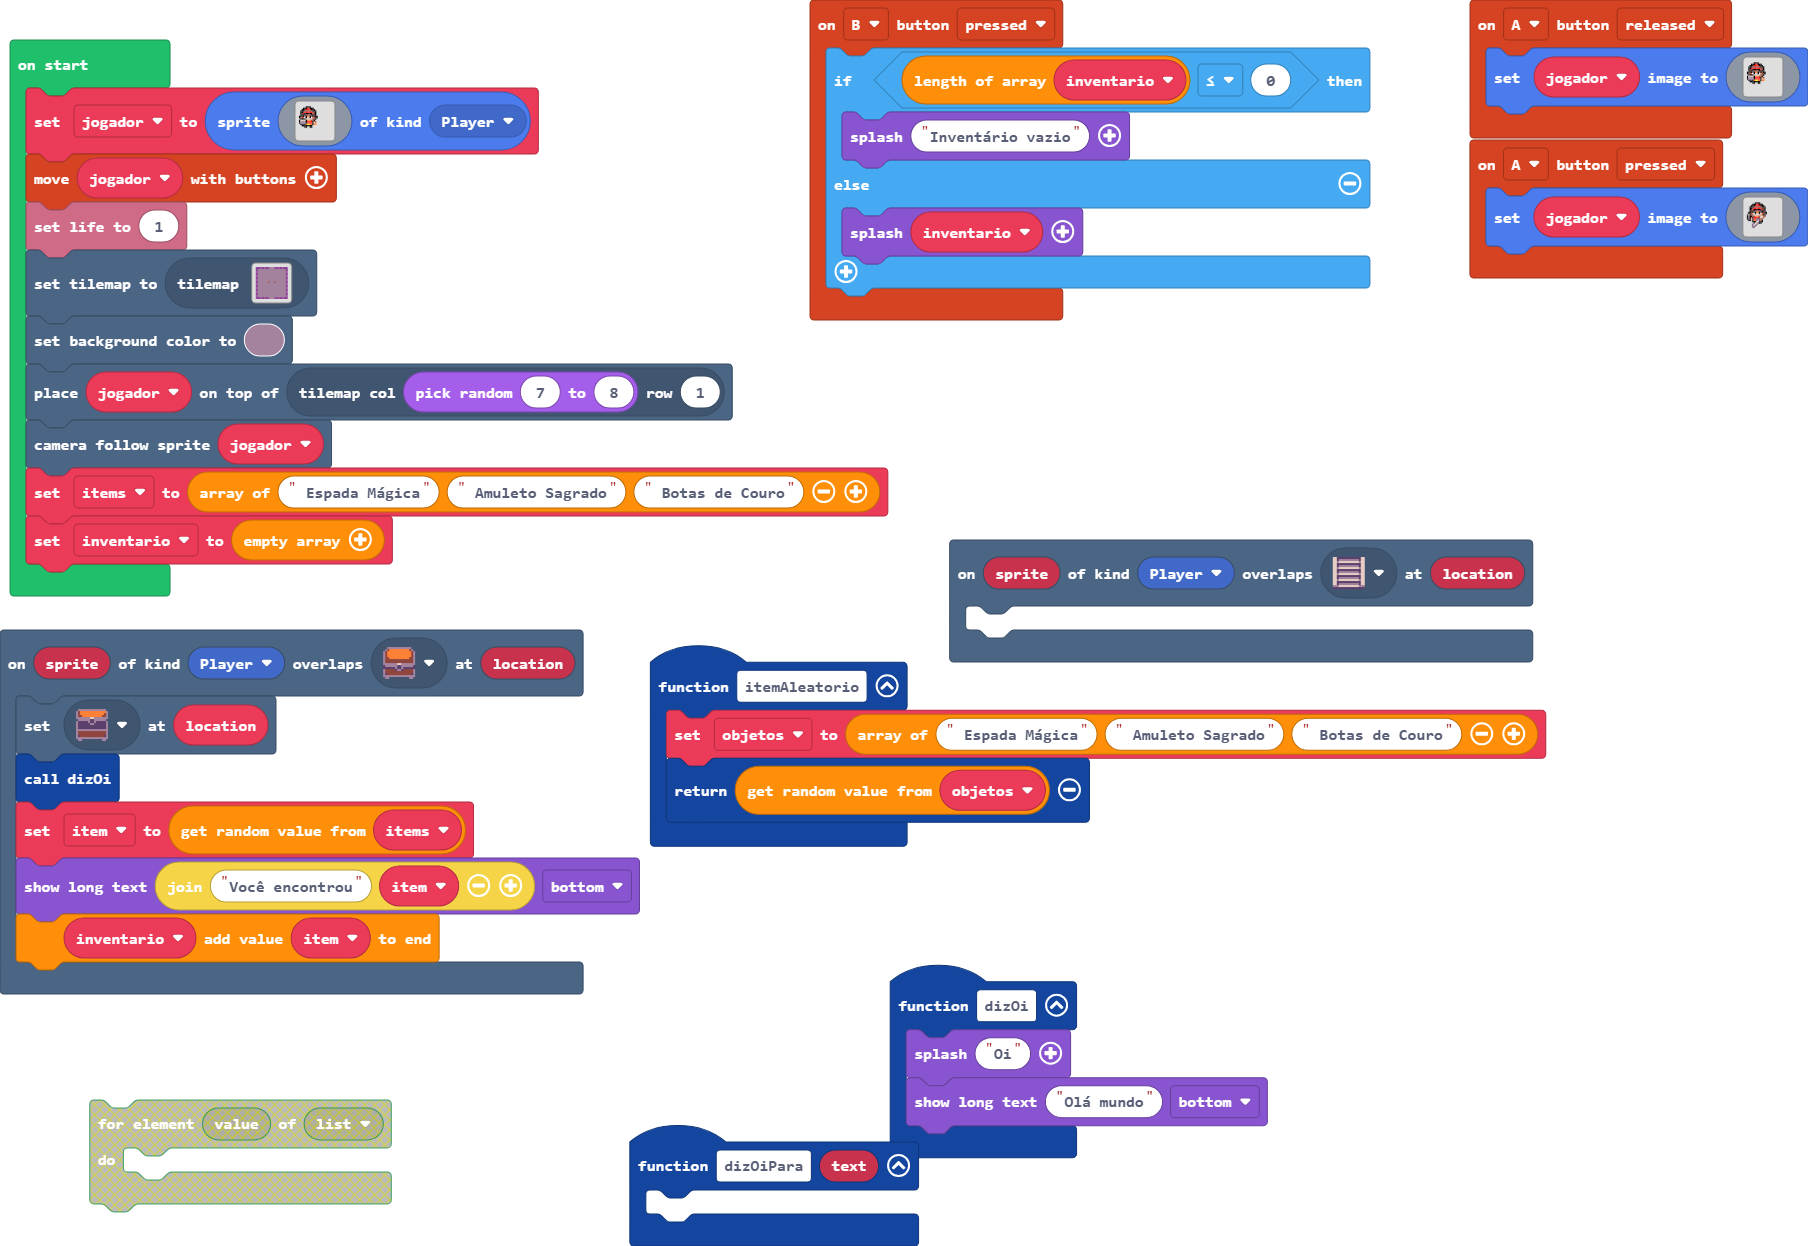
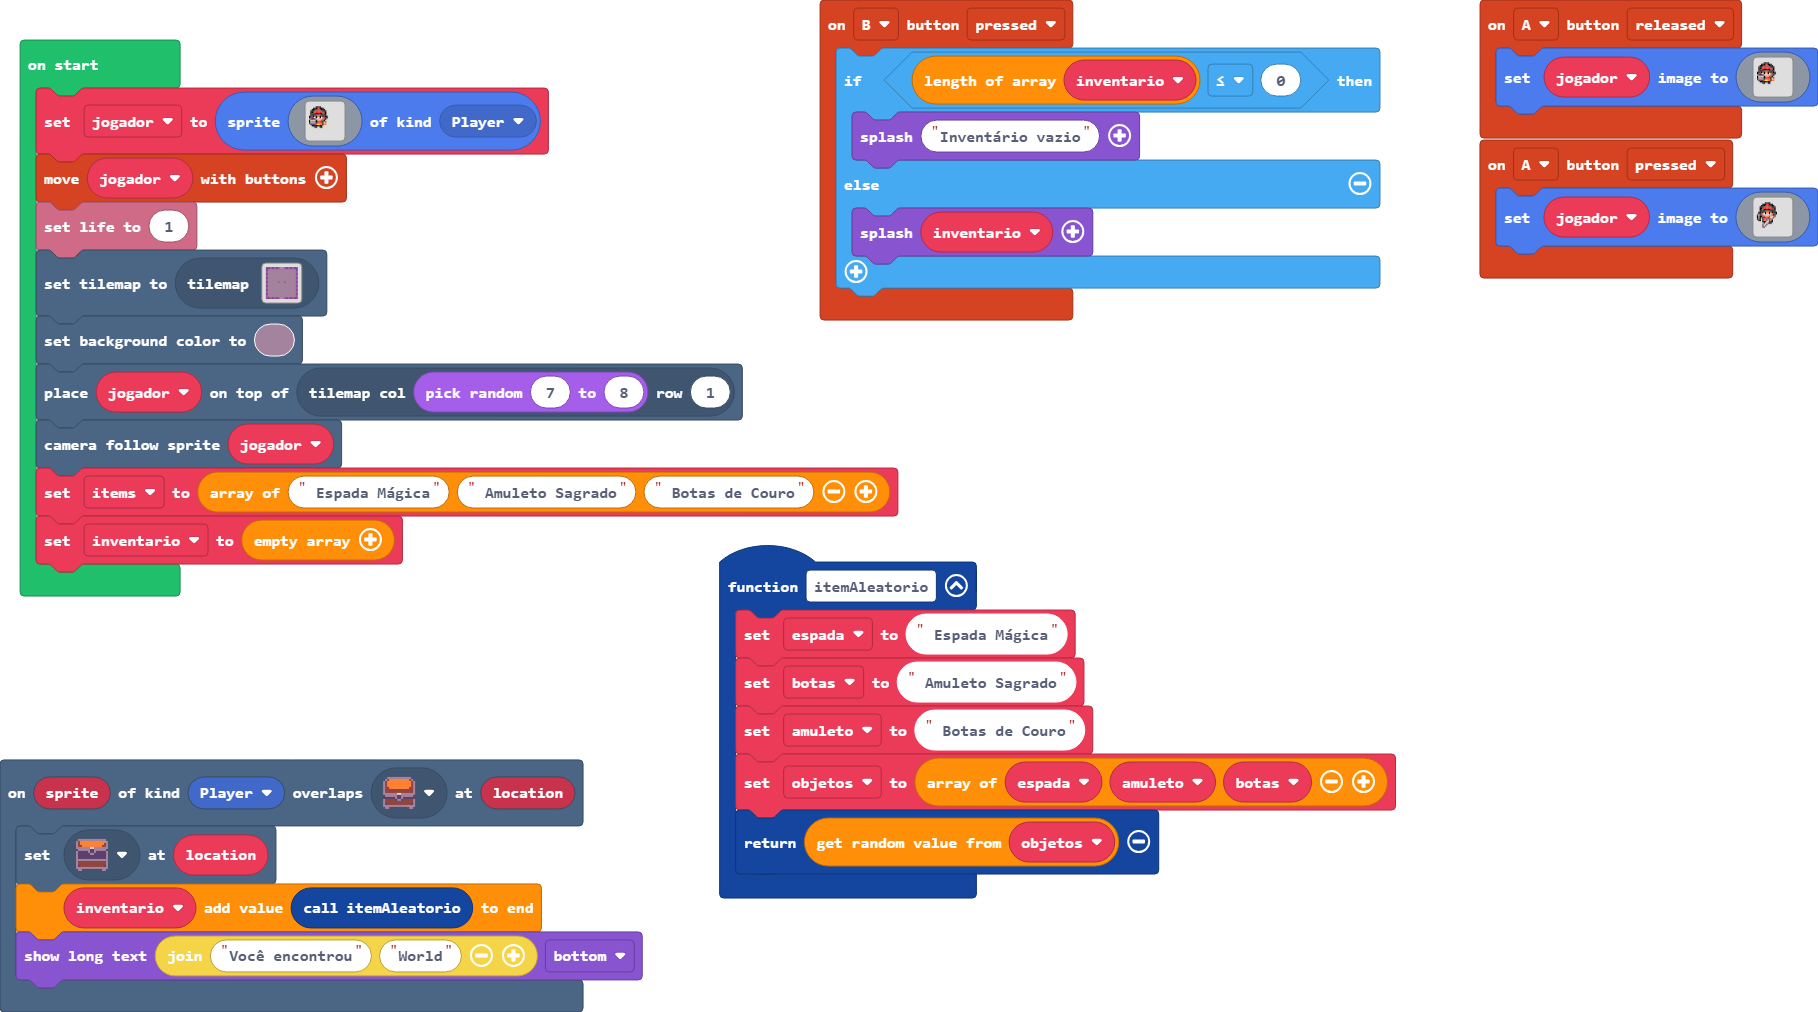
Update main.blocks, main.ts

diff --git a/main.ts b/main.ts
@@ -1,6 +1,3 @@
-scene.onOverlapTile(SpriteKind.Player, sprites.dungeon.stairNorth, function (sprite, location) {
-	
-})
 controller.B.onEvent(ControllerButtonEvent.Pressed, function () {
     if (inventario.length <= 0) {
         game.splash("Inventário vazio")
@@ -36,20 +33,17 @@ controller.A.onEvent(ControllerButtonEvent.Pressed, function () {
         ........................
         `)
 })
-function dizOi () {
-    game.splash("Oi")
-    game.showLongText("Olá mundo", DialogLayout.Bottom)
-}
 function itemAleatorio () {
-    objetos = [" Espada Mágica", " Amuleto Sagrado", " Botas de Couro"]
+    espada = " Espada Mágica"
+    botas = " Amuleto Sagrado"
+    amuleto = " Botas de Couro"
+    objetos = [espada, amuleto, botas]
     return objetos._pickRandom()
 }
 scene.onOverlapTile(SpriteKind.Player, sprites.dungeon.chestClosed, function (sprite, location) {
     tiles.setTileAt(location, sprites.dungeon.chestOpen)
-    dizOi()
-    item = items._pickRandom()
-    game.showLongText("Você encontrou" + item, DialogLayout.Bottom)
-    inventario.push(item)
+    inventario.push(itemAleatorio())
+    game.showLongText("Você encontrou" + "World", DialogLayout.Bottom)
 })
 controller.A.onEvent(ControllerButtonEvent.Released, function () {
     jogador.setImage(img`
@@ -79,13 +73,11 @@ controller.A.onEvent(ControllerButtonEvent.Released, function () {
         ........................
         `)
 })
-function dizOiPara (text: string) {
-	
-}
-let item = ""
 let objetos: string[] = []
+let amuleto = ""
+let botas = ""
+let espada = ""
 let inventario: string[] = []
-let items: string[] = []
 let jogador: Sprite = null
 jogador = sprites.create(img`
     ........................
@@ -119,5 +111,5 @@ tiles.setCurrentTilemap(tilemap`level2`)
 scene.setBackgroundColor(11)
 tiles.placeOnTile(jogador, tiles.getTileLocation(randint(7, 8), 1))
 scene.cameraFollowSprite(jogador)
-items = [" Espada Mágica", " Amuleto Sagrado", " Botas de Couro"]
+let items = [" Espada Mágica", " Amuleto Sagrado", " Botas de Couro"]
 inventario = []
